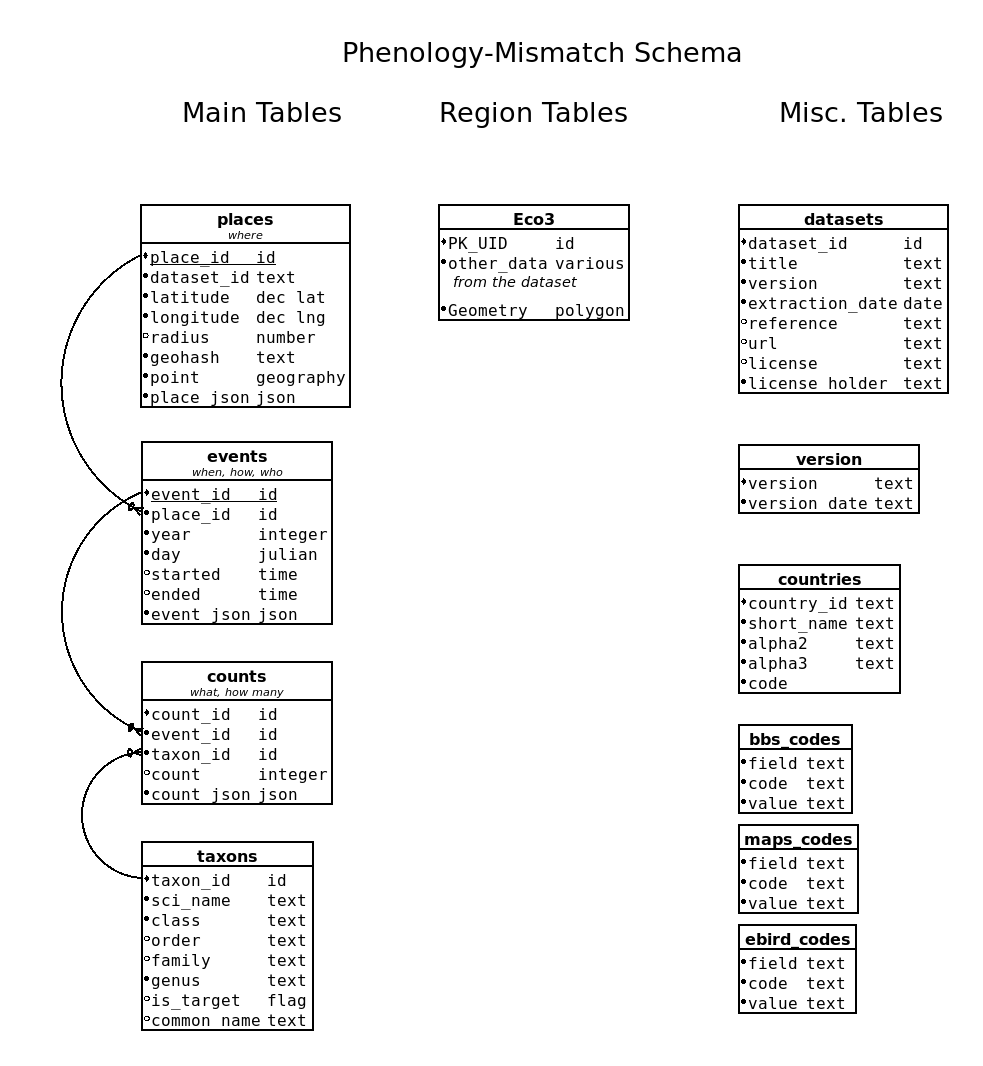
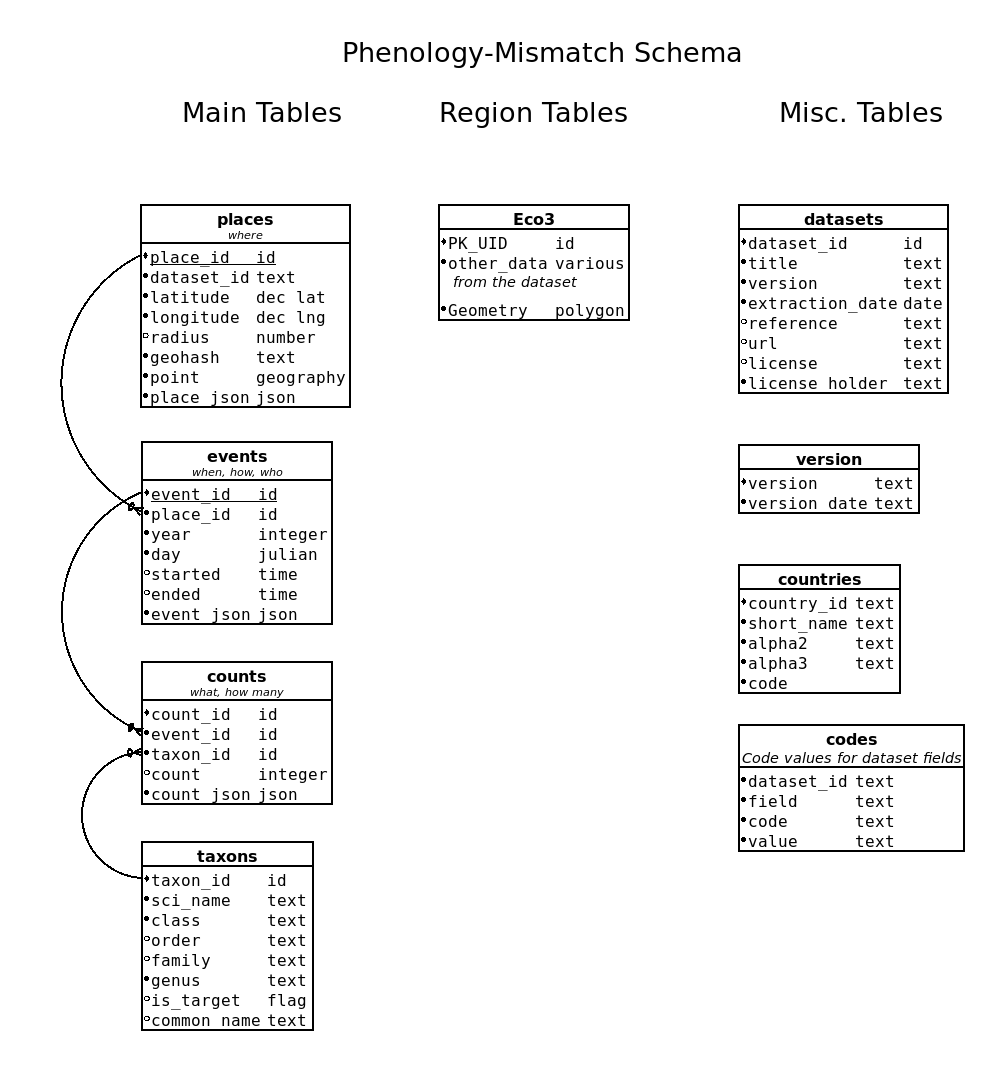
Remove code sidecar tables

Changed region(s): [[0.7325, 0.6811, 0.9766, 0.9597]]

diff --git a/src/lib/base_db.py b/src/lib/base_db.py
@@ -8,6 +8,8 @@ class BaseDb:
     TAXON_COLUMNS = """dataset_id sci_name class ordr family genus
                        common_name target""".split()
 
+    CODE_COLUMNS = 'dataset_id field code value'.split()
+
     PLACE_INDEX = 'place_id'
     PLACE_COLUMNS = 'dataset_id lng lat radius'.split()  # geohash geopoint
 
@@ -43,6 +45,10 @@ class BaseDb:
                   WHERE taxon_id NOT IN (SELECT taxon_id FROM taxons)"""
         self.execute(sql)
 
+        sql = """DELETE FROM codes
+                  WHERE dataset_id NOT IN (SELECT dataset_id FROM datasets)"""
+        self.execute(sql)
+
     def add_taxon_id(self, taxons):
         """Add event IDs to the dataframe."""
         taxon_id = self.next_id('taxons')
@@ -73,29 +79,33 @@ class BaseDb:
         return codes.set_index('code_id')
 
     def insert_taxons(self, taxons):
-        """Insert the taxons into the database."""
+        """Insert taxons into the database."""
         self.upload_table(taxons, 'taxons', self.TAXON_COLUMNS)
 
+    def insert_codes(self, codes):
+        """Insert codes into the database."""
+        self.upload_table(codes, 'codes', self.CODE_COLUMNS)
+
     def insert_places(self, places):
-        """Insert the events into the database."""
+        """Insert places into the database."""
         self.add_json_data(places, 'place_json', self.PLACE_COLUMNS)
         columns = self.PLACE_COLUMNS + ['place_json']
         self.upload_table(places, 'places', columns)
 
     def insert_events(self, events):
-        """Insert the events into the database."""
+        """Insert events into the database."""
         self.add_json_data(events, 'event_json', self.EVENT_COLUMNS)
         columns = self.EVENT_COLUMNS + ['event_json']
         self.upload_table(events, 'events', columns)
 
     def insert_counts(self, counts):
-        """Insert the counts into the database."""
+        """Insert counts into the database."""
         self.add_json_data(counts, 'count_json', self.COUNT_COLUMNS)
         columns = self.COUNT_COLUMNS + ['count_json']
         self.upload_table(counts, 'counts', columns)
 
     def add_json_data(self, df, json_column, columns):
-        """Insert the sidecar table into the database."""
+        """Create a json field for all of the extra columns."""
         df['dataset_id'] = self.dataset_id
         columns = [c for c in df.columns
                    if c not in columns or c == 'dataset_id']

diff --git a/src/lib/base_ingest_maps.py b/src/lib/base_ingest_maps.py
@@ -186,4 +186,4 @@ class BaseIngestMaps:
         print(f'Inserting {self.DATASET_ID} codes')
         codes = pd.read_csv(self.MAPS_PATH / 'maps_codes.csv')
         codes = self.cxn.add_code_id(codes)
-        codes.to_sql('maps_codes', self.cxn.engine, if_exists='replace')
+        self.cxn.insert_codes(codes)

diff --git a/src/lib/base_ingest_bbs.py b/src/lib/base_ingest_bbs.py
@@ -249,4 +249,4 @@ class BaseIngestBbs:
             [strata, protocols, descrs, wind, sky, states, types, details],
             ignore_index=True)
         codes = self.cxn.add_code_id(codes)
-        codes.to_sql('bbs_codes', self.cxn.engine, if_exists='replace')
+        self.cxn.insert_codes(codes)

diff --git a/src/lib/base_ingest_ebird.py b/src/lib/base_ingest_ebird.py
@@ -233,4 +233,4 @@ class BaseIngestEbird:
         codes = codes.append([bcr, iba, usfws], ignore_index=True, sort=True)
         codes = self.cxn.add_code_id(codes)
 
-        codes.to_sql('ebird_codes', self.cxn.engine, if_exists='replace')
+        self.cxn.insert_codes(codes)
